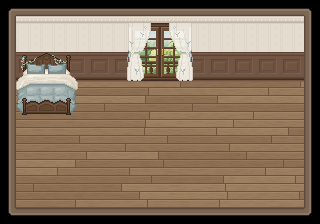
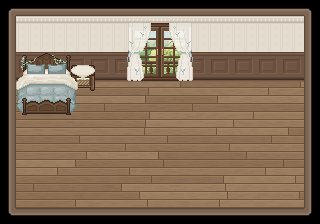
Add the nightstand and split the bed around it
The bed becomes back and front halves so the nightstand, placed against
the wall one pixel right of the headboard, is drawn between them and the
draping blanket covers its corner. The bed's floor footprint now stops at
the headboard post. Default layout moves to version 7.

Claude-Session: https://claude.ai/code/session_016ZF5nt8Kb8CDXJc19mBmz1

Changed region(s): [[0.2188, 0.2812, 0.3125, 0.4062]]

diff --git a/src/space/rooms/room01.ts b/src/space/rooms/room01.ts
@@ -8,8 +8,9 @@ export const ROOM_01_ID = 'room-01';
  * 3：拿掉程序画的家具，只留房间外壳，家具之后改用单独绘制的图片。
  * 4：外壳换成手绘的新房间（墙、地板、窗、门各一张图），角度改成右墙 1/3、左墙 1/2。
  * 5：窗帘从窗户拆出来，左右窗帘和窗帘杆各一张图。
- * 6：换成正面视角的古早风房间（墙、地板、窗、窗帘、外框各一张图），加上床。 */
-export const ROOM_01_VERSION = 6;
+ * 6：换成正面视角的古早风房间（墙、地板、窗、窗帘、外框各一张图），加上床。
+ * 7：床拆成前后两半，床头柜靠墙放在床右边，被子盖过床头柜。 */
+export const ROOM_01_VERSION = 7;
 export function createRoom01(now = Date.now()): RoomConfiguration {
     return {
         schemaVersion: 1, roomId: ROOM_01_ID, roomVersion: ROOM_01_VERSION, revision: 0, updatedAt: now,
@@ -18,7 +19,10 @@ export function createRoom01(now = Date.now()): RoomConfiguration {
             object('wall', 'wall', 0, 0, 0, 0, 0, 'architecture'),
             object('window', 'window', 0, 0, 0, 0, 0, 'architecture'),
             object('curtains', 'curtains', 0, 0, 0, 0, 0, 'architecture'),
-            object('bed', 'bed', 0, 0, 0, 4, 2.25),
+            // 床脚踩到的范围到床头右柱（x 3.375）为止，被子往外垂的部分不算占地。
+            object('bed-back', 'bedBack', 0, 0, 0, 3.375, 0.25),
+            object('bed-front', 'bedFront', 0, 0.25, 0, 3.375, 2),
+            object('nightstand', 'nightstand', 3.4375, 0, 0, 1.5, 0.6875),
             object('frame', 'frame', 0, 0, 0, 0, 0, 'foreground'),
         ]
     };

diff --git a/src/space/assets.generated.ts b/src/space/assets.generated.ts
@@ -46,13 +46,31 @@ export const ROOM_ASSETS: Readonly<Record<string, RoomAsset>> = {
       "y": 80
     }
   },
-  "bed": {
-    "path": "space/room01/bed.png",
+  "bedBack": {
+    "path": "space/room01/bedBack.png",
     "width": 64,
     "height": 64,
     "anchor": {
       "x": 1,
       "y": 28
+    }
+  },
+  "bedFront": {
+    "path": "space/room01/bedFront.png",
+    "width": 64,
+    "height": 64,
+    "anchor": {
+      "x": 1,
+      "y": 32
+    }
+  },
+  "nightstand": {
+    "path": "space/room01/nightstand.png",
+    "width": 24,
+    "height": 26,
+    "anchor": {
+      "x": 0,
+      "y": 15
     }
   }
 };

diff --git a/docs/space-room01.md b/docs/space-room01.md
@@ -4,7 +4,8 @@
 
 - 正面视角的古早风房间，分成五层：地板、墙（含护墙板）、窗户、窗帘（绑起来的）、外框。外框在最上层，盖住房间四周。
 - 每层都是 320 × 224 的透明底图片，叠起来就是完整的房间，放在 `public/space/room01/`。改了图之后跑一次 `generate-space-assets.mjs` 更新素材表。
-- 家具是透明底的单张图片，素材表里记着锚点。目前只有床（64 × 64）。
+- 家具是透明底的单张图片，素材表里记着锚点。目前有床和床头柜。
+- 床拆成后半（床头、枕头）和前半（被子、床尾）两张 64 × 64 的图，床头柜（24 × 26）夹在中间画，被子往外垂的部分才能盖过床头柜。
 - 窗户先放夏天白天、关窗的那张；四季、黄昏、夜晚、开窗和拉上的窗帘之后做互动时再放进来。
 - 画到屏幕上时用双线性放大，看起来柔一点；房间本身在原尺寸拼好，不会混色。
 - 功能架构不变：入口、页面与画布、铺满与拖动缩放、归位钮、对话框、左下角通知、QingTuanSpaceDB 存档。
@@ -13,7 +14,7 @@
 
 - 正面视角：x 往右、y 往前（画面往下），每格 16 像素；z 是像素高度。见 `src/space/projection.ts`。
 - 场景 320 × 224，原点是后墙墙脚的左端，也就是地板左上角 (16, 80)。打开时铺满屏幕，左右可以拖动。
-- 地板：x 0..18、y 0..8。床放在 (0, 0)，占 4 × 2.25 格。
+- 地板：x 0..18、y 0..8。床后半在 (0, 0)，前半在 (0, 0.25)，脚踩的范围到床头右柱为止，宽 3.375 格；床头柜在 (3.4375, 0)，靠墙，离床头右柱 1 像素。
 
 ## 摆放与前后顺序
 
